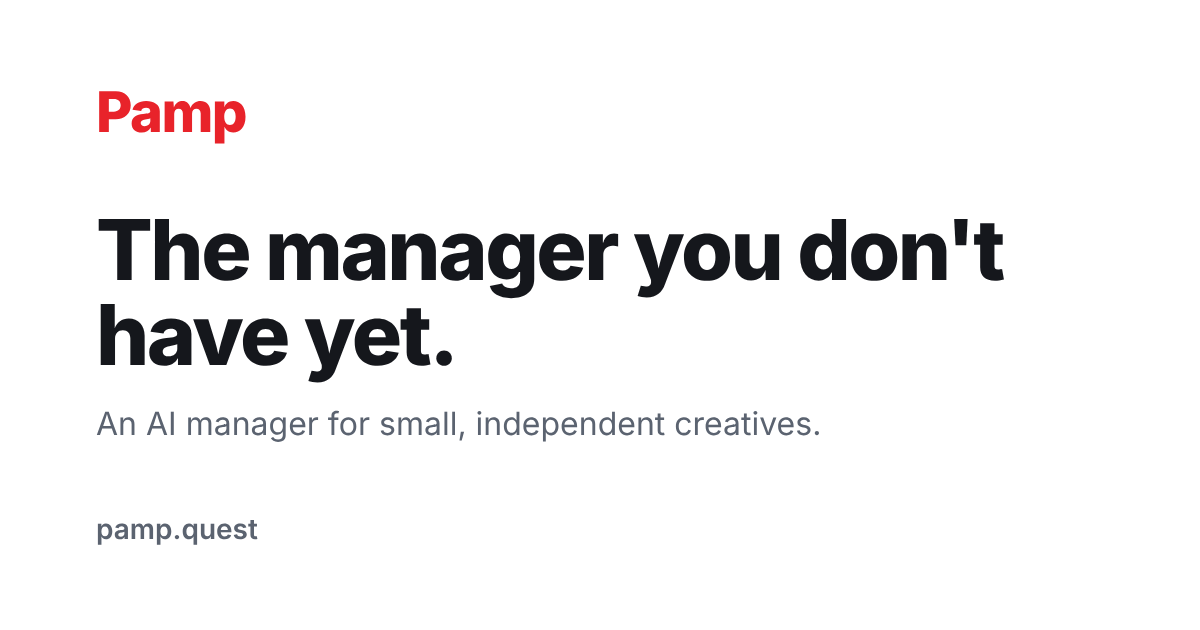
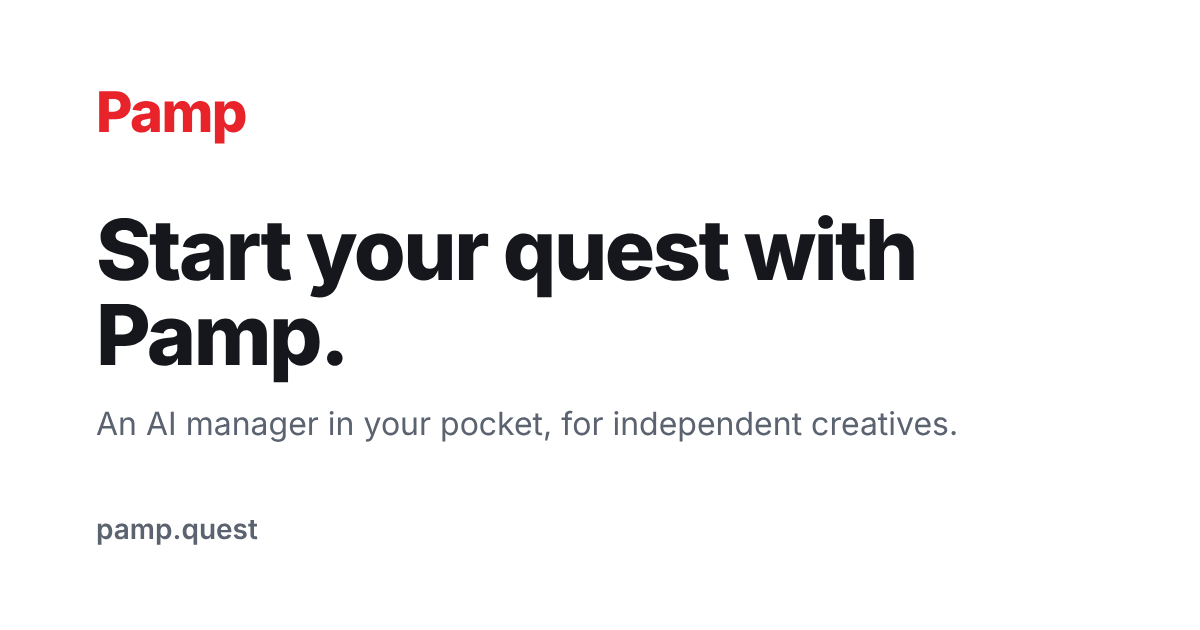
Start your quest with Pamp; cards for today's app; new preview image
Claude-Session: https://claude.ai/code/session_01HUYMgCVy9y55mpW16vQN3s

Changed region(s): [[0.0617, 0.3317, 0.8325, 0.6032], [0.2775, 0.6333, 0.8017, 0.6937], [0.0925, 0.4825, 0.1233, 0.573]]

diff --git a/index.html b/index.html
@@ -3,24 +3,24 @@
   <head>
     <meta charset="utf-8" />
     <meta name="viewport" content="width=device-width, initial-scale=1" />
-    <title>Pamp: the manager you don't have yet</title>
+    <title>Pamp: start your quest</title>
     <meta
       name="description"
-      content="Pamp is an AI manager for small, independent creatives. Plan your week, think through your deals and keep your work moving."
+      content="An AI manager in your pocket for small, independent creatives. Plan your week, think through your deals and keep your work moving."
     />
     <!-- The preview when the link is shared (texts, chats, social). -->
     <meta property="og:type" content="website" />
     <meta property="og:site_name" content="Pamp" />
     <meta property="og:url" content="https://pamp.quest/" />
-    <meta property="og:title" content="Pamp: the manager you don't have yet" />
+    <meta property="og:title" content="Pamp: start your quest" />
     <meta
       property="og:description"
-      content="An AI manager for small, independent creatives. Plan your week, think through your deals and keep your work moving."
+      content="An AI manager in your pocket for small, independent creatives. Plan your week, think through your deals and keep your work moving."
     />
     <meta property="og:image" content="https://pamp.quest/og-image.png" />
     <meta property="og:image:width" content="1200" />
     <meta property="og:image:height" content="630" />
-    <meta property="og:image:alt" content="Pamp. The manager you don't have yet." />
+    <meta property="og:image:alt" content="Pamp. Start your quest with Pamp." />
     <meta name="twitter:card" content="summary_large_image" />
     <link rel="stylesheet" href="styles.css" />
   </head>
@@ -36,11 +36,11 @@
 
       <main>
         <section class="hero">
-          <h1>The manager you don't have yet.</h1>
+          <h1>Start your quest with Pamp.</h1>
           <p class="lead">
-            Pamp is an AI manager for small, independent creatives. If you make the work and run
-            everything around it yourself, Pamp helps you plan your week, think through your deals
-            and keep your work moving, in your own words.
+            An AI manager in your pocket, for small, independent creatives. If you make the work and
+            run everything around it yourself, Pamp helps you plan your week, think through your
+            deals and keep your work moving.
           </p>
           <p class="waitlist">
             <a class="button" href="mailto:hello@pamp.quest?subject=Pamp%20waitlist"
@@ -64,24 +64,24 @@
               </p>
             </div>
             <div class="card">
-              <h3>A plan for your week</h3>
+              <h3>Your week, planned</h3>
               <p>
-                Start with three steps that fit you, and keep a short list of what you want done
-                this week.
+                Up to three goals and the time to reach them, planned with your manager. Every
+                Monday, Pamp suggests three things to start with.
               </p>
             </div>
             <div class="card">
-              <h3>It remembers you</h3>
+              <h3>Bigger than a week</h3>
               <p>
-                Pamp keeps short notes about you, in your words, so you don't repeat yourself. You
-                can read, change or clear them.
+                An EP, a zine, a series: a project with a date and its own checklist, which your
+                manager keeps in mind.
               </p>
             </div>
             <div class="card">
-              <h3>Your way of working</h3>
+              <h3>It knows you</h3>
               <p>
-                Pick how your manager talks to you, from straight shooter to hype. Post every day,
-                or never: both are fine.
+                Pick how your manager talks to you, from straight shooter to hype. Pamp keeps short
+                notes about you, in your words, that you can read, change or clear.
               </p>
             </div>
           </div>
